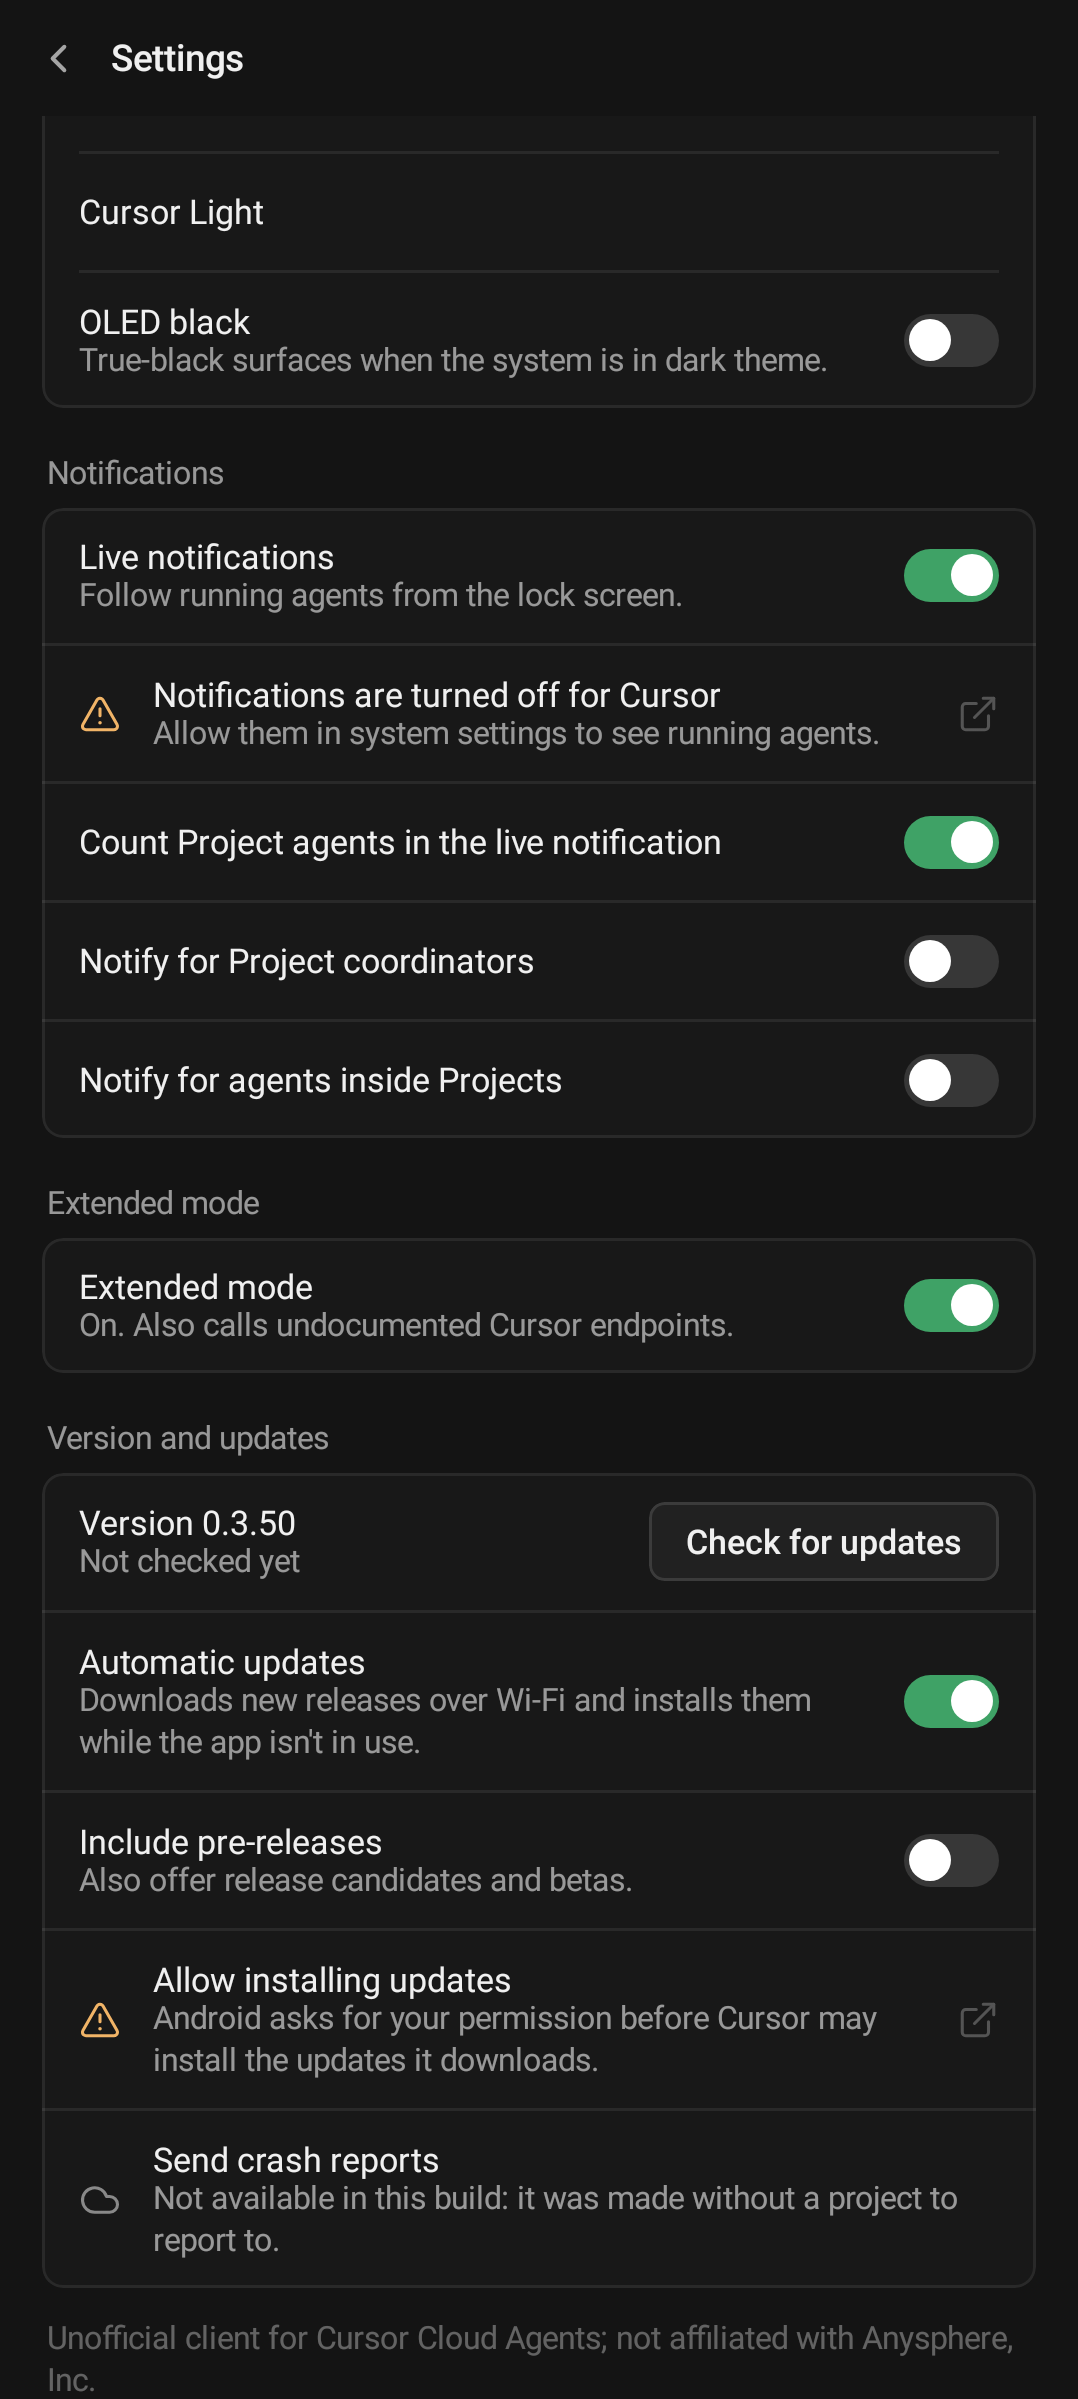
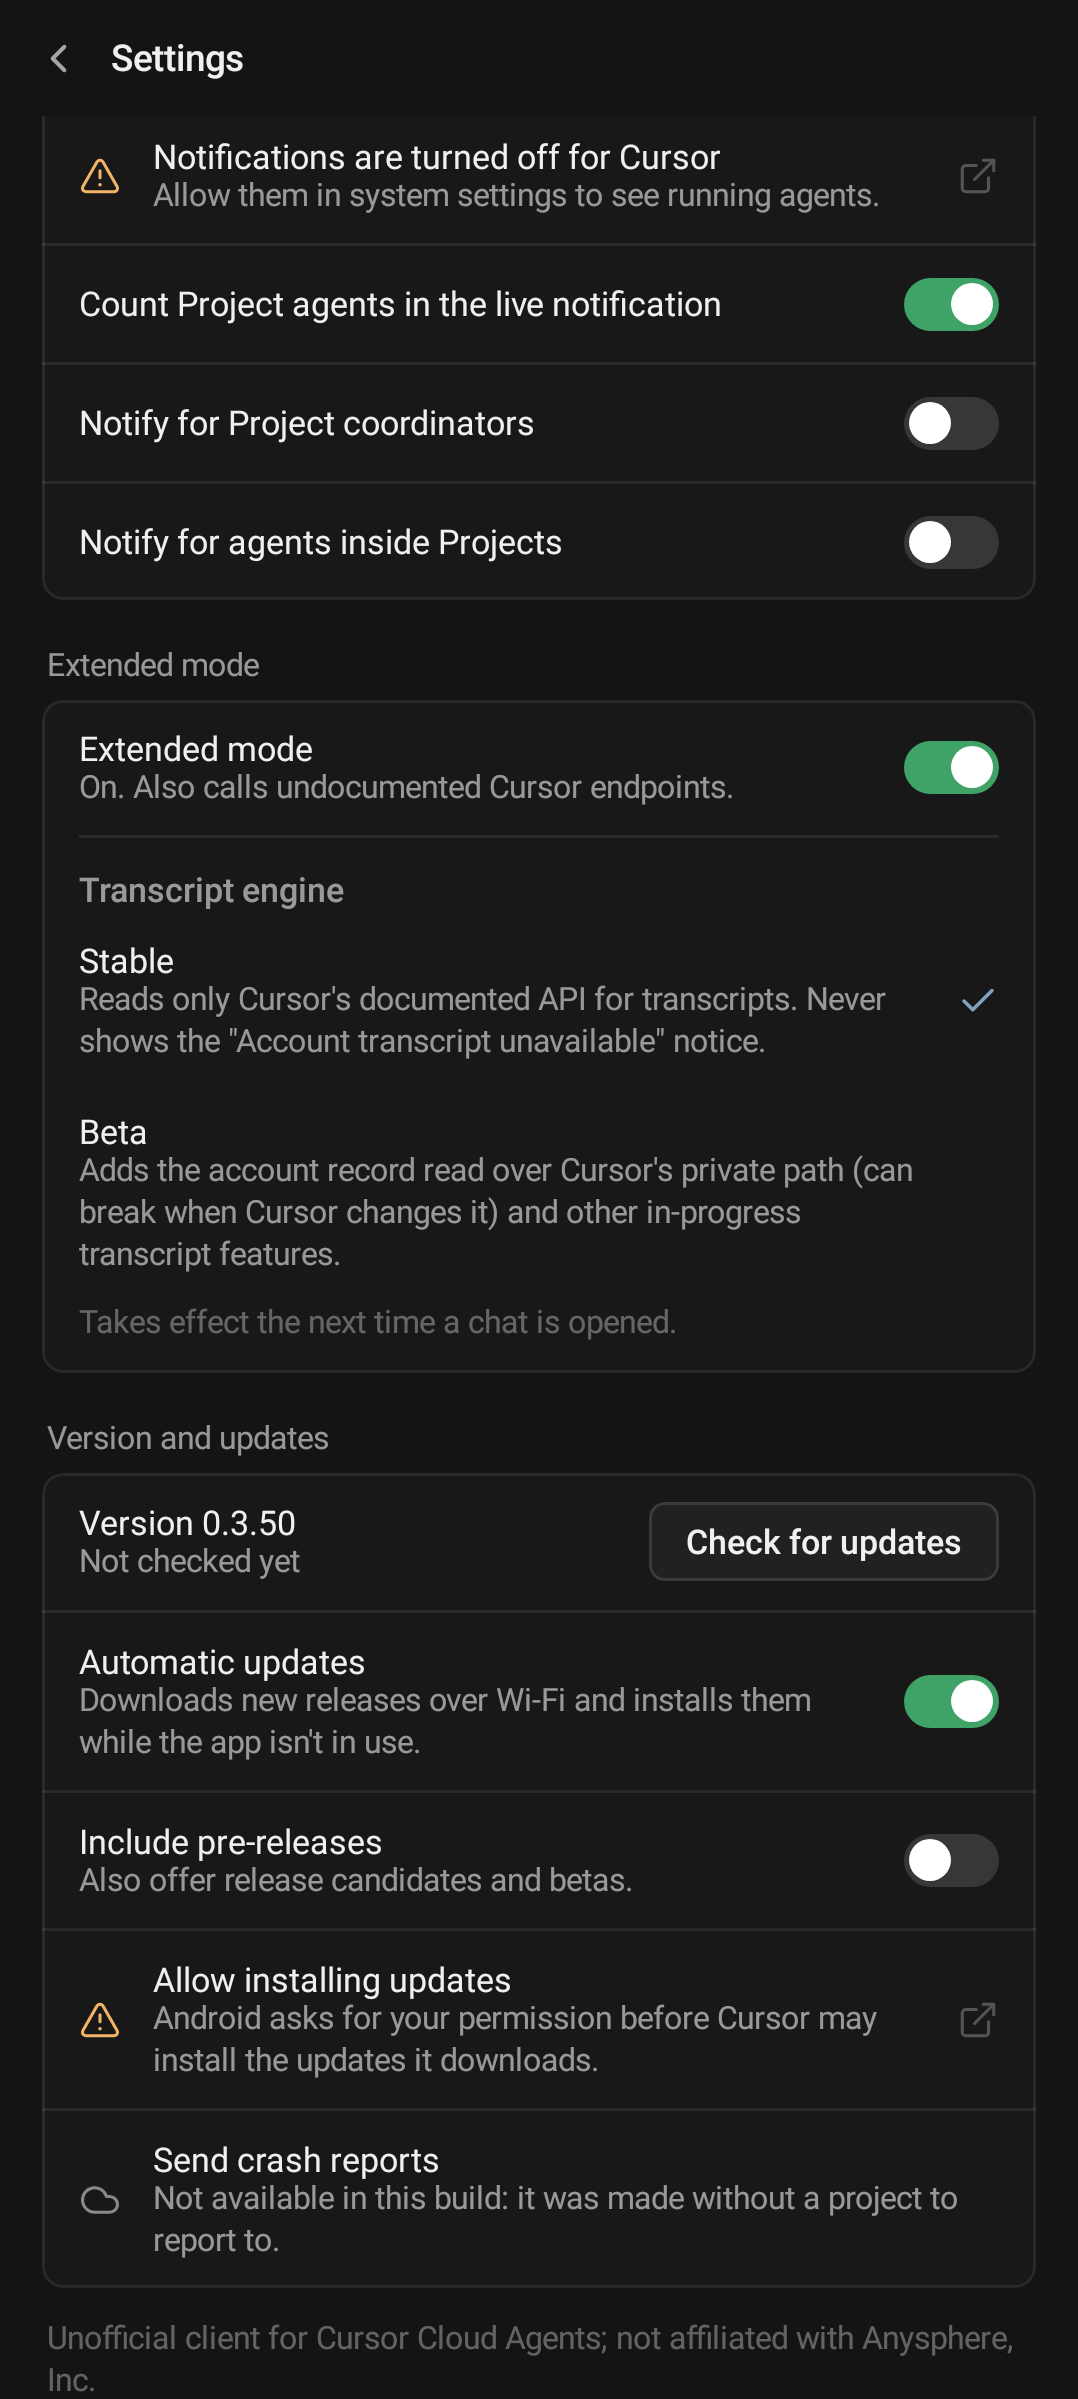
Frames: the transcript engine in Settings (Stable chosen, Beta chosen) and the 240-turn Project on Stable with no notice row
SettingsScreenshotTest: the section under the switch with Stable checked (67, re-recorded), Beta chosen through a tap that writes the setting (123), and the rows absent with the mode off. TranscriptEngineScreenshotTest drives the fault rig under Stable with the record refused the way Bennett's phone met it, and renders what the pipeline shows: the coordinator's words and stretches from the logs, an expired turn's calm row with its X, no record request in the log and no notice over the composer (124).

diff --git a/app/src/test/java/com/cursorforandroid/screenshots/TranscriptEngineScreenshotTest.kt b/app/src/test/java/com/cursorforandroid/screenshots/TranscriptEngineScreenshotTest.kt
@@ -1,0 +1,195 @@
+package com.cursorforandroid.screenshots
+
+import androidx.activity.ComponentActivity
+import androidx.compose.foundation.background
+import androidx.compose.foundation.layout.Arrangement
+import androidx.compose.foundation.layout.Column
+import androidx.compose.foundation.layout.fillMaxSize
+import androidx.compose.foundation.layout.fillMaxWidth
+import androidx.compose.foundation.layout.padding
+import androidx.compose.foundation.layout.widthIn
+import androidx.compose.material3.ExperimentalMaterial3Api
+import androidx.compose.material3.LocalRippleConfiguration
+import androidx.compose.runtime.Composable
+import androidx.compose.runtime.CompositionLocalProvider
+import androidx.compose.ui.Alignment
+import androidx.compose.ui.Modifier
+import androidx.compose.ui.test.assertCountEquals
+import androidx.compose.ui.test.hasTestTag
+import androidx.compose.ui.test.junit4.createAndroidComposeRule
+import androidx.compose.ui.test.onAllNodesWithText
+import androidx.compose.ui.unit.dp
+import androidx.test.ext.junit.runners.AndroidJUnit4
+import com.cursorforandroid.data.api.dto.AgentDto
+import com.cursorforandroid.data.api.dto.RunDto
+import com.cursorforandroid.data.api.dto.V0AgentDto
+import com.cursorforandroid.data.faults.FaultRig
+import com.cursorforandroid.data.faults.FaultServer
+import com.cursorforandroid.data.faults.FaultServer.Fault
+import com.cursorforandroid.data.faults.FaultServer.Route
+import com.cursorforandroid.data.repo.ConversationState
+import com.cursorforandroid.data.repo.TimelineBuilder
+import com.cursorforandroid.domain.TranscriptEngine
+import com.cursorforandroid.domain.TranscriptPresenter
+import com.cursorforandroid.domain.TranscriptRow
+import com.cursorforandroid.fixtures.LongProject
+import com.cursorforandroid.ui.components.ComposerBox
+import com.cursorforandroid.ui.components.ComposerMenuActions
+import com.cursorforandroid.ui.conversation.LocalTranscriptControls
+import com.cursorforandroid.ui.conversation.RECORD_FALLBACK_TITLE
+import com.cursorforandroid.ui.conversation.TraceStatusRow
+import com.cursorforandroid.ui.conversation.TranscriptControls
+import com.cursorforandroid.ui.conversation.TranscriptRowView
+import com.cursorforandroid.ui.theme.CursorDimens
+import com.cursorforandroid.ui.theme.CursorTheme
+import com.cursorforandroid.ui.theme.ThemeMode
+import com.cursorforandroid.util.AppClock
+import com.github.takahirom.roborazzi.ExperimentalRoborazziApi
+import com.github.takahirom.roborazzi.RoborazziOptions
+import com.github.takahirom.roborazzi.captureScreenRoboImage
+import com.google.common.truth.Truth.assertThat
+import kotlinx.coroutines.delay
+import kotlinx.coroutines.runBlocking
+import org.junit.After
+import org.junit.Before
+import org.junit.Rule
+import org.junit.Test
+import org.junit.rules.TemporaryFolder
+import org.junit.runner.RunWith
+import org.robolectric.annotation.Config
+import org.robolectric.annotation.GraphicsMode
+import java.io.File
+
+/**
+ * The 240-turn Project opened under the Stable transcript engine (see [TranscriptEngine]), through the real pipeline
+ * on the fault harness with the account's record refused the way Bennett's phone met it on 2026-09-21 — and never
+ * asked: the transcript from the documented endpoints, the coordinator's messages among the rows from the runs'
+ * logs, a turn whose log expired named by its calm row, and no "Account transcript unavailable" notice over the
+ * composer, because under Stable the documented path is the design and not a fallback. Written to `screenshots/`
+ * and compared pixel for pixel in CI.
+ */
+@RunWith(AndroidJUnit4::class)
+@GraphicsMode(GraphicsMode.Mode.NATIVE)
+@Config(sdk = [35], qualifiers = "w411dp-h914dp-night-420dpi")
+class TranscriptEngineScreenshotTest {
+
+    @get:Rule
+    val compose = createAndroidComposeRule<ComponentActivity>()
+
+    @get:Rule
+    val folder = TemporaryFolder()
+
+    private val outDir = File(System.getProperty("user.dir"), "../screenshots").normalize()
+    private val agentId = LongProject.AGENT_ID
+    private val firstAt = 1_800_000_000_000L - LongProject.TURNS * LongProject.TURN_SPACING_MS
+    private val turns = LongProject.turns(firstAt)
+    private val live get() = turns.last()
+    private lateinit var server: FaultServer
+    private var rig: FaultRig? = null
+
+    @Before
+    fun setUp() {
+        server = FaultServer(rttMillis = 40L..90L).start()
+        turns.forEach { turn ->
+            server.runs[turn.runId] = RunDto(id = turn.runId, agentId = agentId, status = turn.status, createdAt = LongProject.iso(turn.startedAt), updatedAt = LongProject.iso(turn.endedAt), durationMs = turn.durationMs, result = LongProject.result(turn))
+            server.logs[turn.runId] = turn.log
+        }
+        server.agents[agentId] = AgentDto(id = agentId, name = LongProject.AGENT_NAME, status = "ACTIVE", createdAt = LongProject.iso(firstAt), updatedAt = LongProject.iso(live.startedAt), latestRunId = live.runId, url = "https://cursor.com/agents/$agentId")
+        server.v0[agentId] = V0AgentDto(id = agentId, name = LongProject.AGENT_NAME, status = "RUNNING")
+        server.transcripts[agentId] = LongProject.v0Transcript(turns)
+        server.records[agentId] = turns.flatMap { it.record }
+        // The record refused in the server's words, as on Bennett's phone — never met under Stable.
+        server.outage(Route.RecordState, Fault.Status(404, "unimplemented", FaultServer.REMOVED_UNARY))
+        server.outage(Route.Stream, Fault.StreamCut(events = live.log.size), path = "/${live.runId}/")
+        // The newest finished turn's log is gone: its row says so, calmly.
+        server.logs.remove(turns[turns.size - 2].runId)
+    }
+
+    @After
+    fun tearDown() {
+        rig?.close()
+        server.close()
+        AppClock.nowMillis = System::currentTimeMillis
+    }
+
+    private val state: ConversationState get() = rig!!.conversations.state(agentId).value
+
+    /** The chat as the pipeline renders it under [engine], settled: the window's traces read and the frame still. */
+    private fun open(engine: TranscriptEngine): ConversationState = runBlocking {
+        val rig = FaultRig(server.baseUrl, folder.newFolder("rig-${System.nanoTime()}"), readTimeoutMs = 8_000L, extended = true, engine = engine).also {
+            it.now = live.startedAt + 90_000L
+            rig = it
+        }
+        rig.agents.refresh()
+        rig.conversations.attach(agentId)
+        rig.awaitUntil(60_000) { state.let { !it.isLoading && it.items.isNotEmpty() } }
+        rig.awaitUntil(90_000) {
+            val quiet = state.traceStatus.pending == 0 && rig.conversations.loadDiagnostics(agentId)!!.let { it.traceQueue == 0 && it.traceInFlight == 0 && !it.traceWorkerRunning }
+            if (!quiet) return@awaitUntil false
+            val items = state.items
+            delay(1_000)
+            state.items == items
+        }
+        state
+    }
+
+    @OptIn(ExperimentalRoborazziApi::class)
+    private fun capture(name: String) {
+        compose.waitForIdle()
+        captureScreenRoboImage(File(outDir, "$name.png").path, RoborazziOptions())
+    }
+
+    @OptIn(ExperimentalMaterial3Api::class)
+    private fun show(state: ConversationState, rows: List<TranscriptRow>) {
+        compose.setContent {
+            CursorTheme(mode = ThemeMode.Dark) {
+                CompositionLocalProvider(LocalRippleConfiguration provides null, LocalTranscriptControls provides TranscriptControls(onOpenAgent = {}, agentById = { null }, coordinatorMode = true, onDismissNotice = {})) {
+                    Column(Modifier.fillMaxSize().background(CursorTheme.colors.canvas)) {
+                        Column(
+                            Modifier.weight(1f).fillMaxWidth().padding(horizontal = 16.dp, vertical = 12.dp),
+                            verticalArrangement = Arrangement.spacedBy(10.dp),
+                        ) {
+                            if (state.traceStatus.let { it.pending + it.expired + it.failed > 0 }) TraceStatusRow(state.traceStatus, onRetry = {})
+                            rows.forEach { TranscriptRowView(it) }
+                        }
+                        Column(
+                            Modifier.fillMaxWidth().padding(horizontal = CursorDimens.composerGutter).padding(bottom = CursorDimens.composerBottomGap),
+                            horizontalAlignment = Alignment.CenterHorizontally,
+                        ) {
+                            ComposerBox(
+                                value = "",
+                                onValueChange = {},
+                                placeholder = "Follow up (queues on your account)…",
+                                onSend = {},
+                                isRunning = true,
+                                onStop = {},
+                                plusMenu = ComposerMenuActions(onPickMedia = {}),
+                                modelLabel = "Claude Fable 5.1",
+                                onModel = {},
+                                modifier = Modifier.widthIn(max = CursorDimens.composerMaxWidth),
+                            )
+                        }
+                    }
+                }
+            }
+        }
+        compose.waitForIdle()
+    }
+
+    @Test
+    fun longProjectOnStable() {
+        AppClock.nowMillis = { live.startedAt + 90_000L }
+        val state = open(TranscriptEngine.STABLE)
+        // Nothing of the record: not asked, not refused, no notice.
+        assertThat(server.seen.map { it.route }).containsNoneOf(Route.RecordState, Route.Blob, Route.Record)
+        assertThat(state.recordFallback).isNull()
+        assertThat(state.items.any { it.id.startsWith("expired-") }).isTrue()
+        val rows = TranscriptPresenter().present(state.items, coordinatorMode = true, runActive = true).rows
+        // The newest rows, as the screen opens on them: the coordinator's word, its stretches, the expired turn's row, the live stretch.
+        show(state, rows.takeLast(7))
+        compose.waitUntil(10_000) { compose.onAllNodesWithText(TimelineBuilder.EXPIRED_TITLE).fetchSemanticsNodes().isNotEmpty() }
+        compose.onAllNodes(hasTestTag("record-fallback")).assertCountEquals(0)
+        compose.onAllNodesWithText(RECORD_FALLBACK_TITLE, substring = true).assertCountEquals(0)
+        capture("124_long_project_stable")
+    }
+}

diff --git a/app/src/test/java/com/cursorforandroid/screenshots/SettingsScreenshotTest.kt b/app/src/test/java/com/cursorforandroid/screenshots/SettingsScreenshotTest.kt
@@ -8,6 +8,14 @@ import androidx.compose.runtime.CompositionLocalProvider
 import androidx.compose.ui.semantics.SemanticsActions
 import androidx.compose.ui.test.assertIsDisplayed
 import androidx.compose.ui.test.hasTestTag
+import com.google.common.truth.Truth.assertThat
+import com.cursorforandroid.domain.TranscriptEngine
+import androidx.compose.ui.test.onAllNodesWithText
+import androidx.compose.ui.test.assertCountEquals
+import androidx.compose.ui.test.performClick
+import androidx.compose.ui.test.isSelected
+import androidx.compose.ui.test.assertIsNotSelected
+import androidx.compose.ui.test.assertIsSelected
 import androidx.compose.ui.test.isOn
 import androidx.compose.ui.test.junit4.createAndroidComposeRule
 import androidx.compose.ui.test.onNodeWithTag
@@ -147,7 +155,38 @@ class SettingsScreenshotTest {
         compose.waitUntil(30_000) { modeReadsOn() }
         scrollToBottom()
         compose.onNodeWithText(ExtendedModeCopy.SETTING_ON).assertIsDisplayed()
+        // The transcript engine under the switch, Stable chosen — the default, for every install.
+        compose.onNodeWithText(ExtendedModeCopy.ENGINE_TITLE).assertIsDisplayed()
+        compose.onNodeWithTag(ExtendedModeTags.ENGINE_STABLE).assertIsSelected()
+        compose.onNodeWithTag(ExtendedModeTags.ENGINE_BETA).assertIsNotSelected()
+        compose.onNodeWithText(ExtendedModeCopy.ENGINE_STABLE_DETAIL).assertIsDisplayed()
+        compose.onNodeWithText(ExtendedModeCopy.ENGINE_BETA_DETAIL).assertIsDisplayed()
         capture("67_settings_extended_on")
+    }
+
+    /** Beta chosen: the tap writes the setting, the check moves, and the footnote says when it takes effect. */
+    @Test
+    fun transcriptEngineBeta() {
+        turnExtendedModeOn()
+        composeSettings()
+        compose.waitUntil(30_000) { modeReadsOn() }
+        scrollToBottom()
+        compose.onNodeWithTag(ExtendedModeTags.ENGINE_BETA).performClick()
+        compose.waitUntil(10_000) { compose.onAllNodes(isSelected() and hasTestTag(ExtendedModeTags.ENGINE_BETA)).fetchSemanticsNodes().isNotEmpty() }
+        compose.onNodeWithTag(ExtendedModeTags.ENGINE_STABLE).assertIsNotSelected()
+        compose.onNodeWithText(ExtendedModeCopy.ENGINE_FOOTNOTE).assertIsDisplayed()
+        assertThat(runBlocking { graph.extendedMode.engine() }).isEqualTo(TranscriptEngine.BETA)
+        assertThat(runBlocking { graph.extendedMode.capabilities() }.accountTranscript).isTrue()
+        capture("123_settings_transcript_engine_beta")
+    }
+
+    /** With the mode off the engine chooses nothing, and the rows are not shown. */
+    @Test
+    fun transcriptEngineHiddenWithModeOff() {
+        composeSettings()
+        scrollToBottom()
+        compose.onAllNodesWithText(ExtendedModeCopy.ENGINE_TITLE).assertCountEquals(0)
+        assertThat(runBlocking { graph.extendedMode.capabilities() }.accountTranscript).isFalse()
     }
 
     /**
